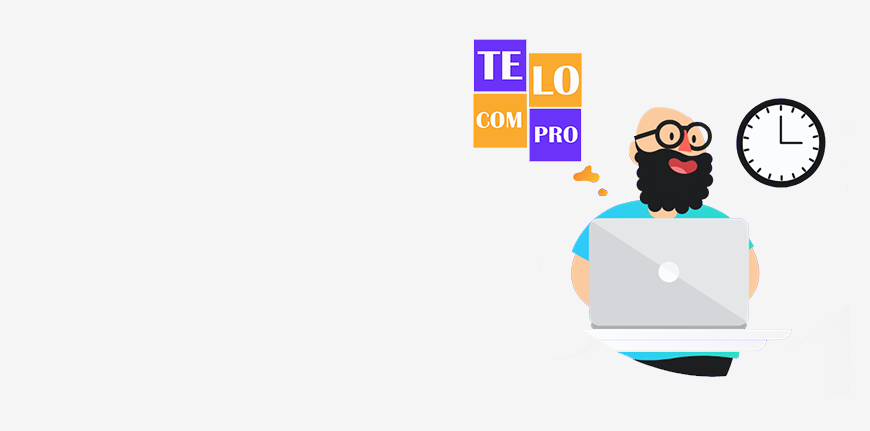
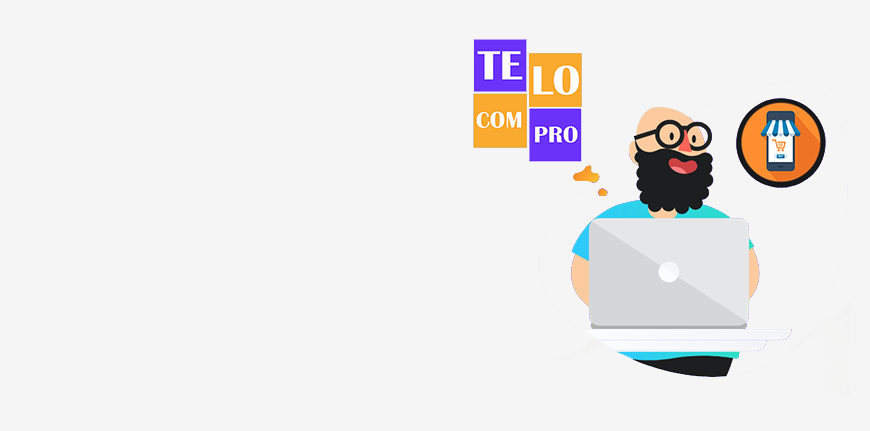
Pruebas

Changed region(s): [[0.8379, 0.2111, 0.9621, 0.4223]]

diff --git a/public/css/android.css b/public/css/android.css
@@ -3,3 +3,20 @@
     color: #ffffff !important;
     border-color: rgb(127, 173, 57) !important;
 }
+
+.num_carrito {
+    height: 13px;
+    width: 13px;
+    background: #7fad39;
+    font-size: 10px;
+    color: #ffffff;
+    line-height: 13px;
+    text-align: center;
+    font-weight: 700;
+    display: inline-block;
+    border-radius: 50%;
+    position: absolute;
+    top: 0;
+    right: -12px;
+    padding: 10px 0 24px;
+}

diff --git a/resources/views/android/store/index.blade.php b/resources/views/android/store/index.blade.php
@@ -337,7 +337,12 @@
                                     </li>
                                     <li><a href="{{ route('android.detalles', [Auth::user()->id, $producto->id]) }}"><i
                                                 class="fa fa-eye"></i></a></li>
-                                    <li><a href="#"><i class="fa fa-shopping-cart"></i></a></li>
+                                    <li>
+                                        <a href="#">
+                                            <i class="fa fa-shopping-cart"></i>
+                                            <span class="num_carrito">3</span>
+                                        </a>
+                                    </li>
                                 </ul>
                             </div>
                             <div class="featured__item__text">
@@ -515,7 +520,7 @@
                     Swal.fire({
                         toast: true,
                         title: data.message,
-                        //text: "Bienvenido, puedes empezar a comprar.",
+                        //text: data.message,
                         icon: data.type,
                         //showConfirmButton: false,
                         //confirmButtonColor: '#3085d6',

diff --git a/resources/views/android/facturacion/index.blade.php b/resources/views/android/facturacion/index.blade.php
@@ -135,7 +135,8 @@
             <div class="form-group text-right">
                 <input type="hidden" name="id_cliente" value="{{ $id_cliente }}">
                 <input type="hidden" name="opcion" value="{{ $opcion }}">
-                <input type="submit" class="btn btn-block {{ $class }}" value="{{ $boton }}">
+                {{--<input type="submit" class="btn btn-block bg-orange--}}{{--{{ $class }}--}}{{--" style="color: white;" value="{{ $boton }}">--}}
+                <button type="submit" class="btn btn-block bg-orange"><span class="text-bold" style="color: white;">{{ $boton }}</span></button>
             </div>
 
             {!! Form::close() !!}

diff --git a/resources/views/android/prueba.blade.php b/resources/views/android/prueba.blade.php
@@ -136,4 +136,14 @@
         </a>
     </div>
 
+    <input type="button" value="Say hello" onClick="showAndroidToast('Hello Android!')" />
+
+    <script type="text/javascript">
+        function showAndroidToast(toast) {
+           
+			Android.showToast(toast);
+        }
+    </script>
+
+
 @endsection
